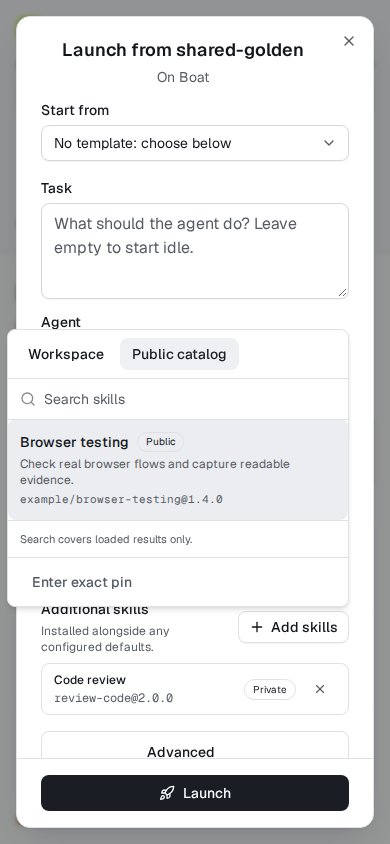
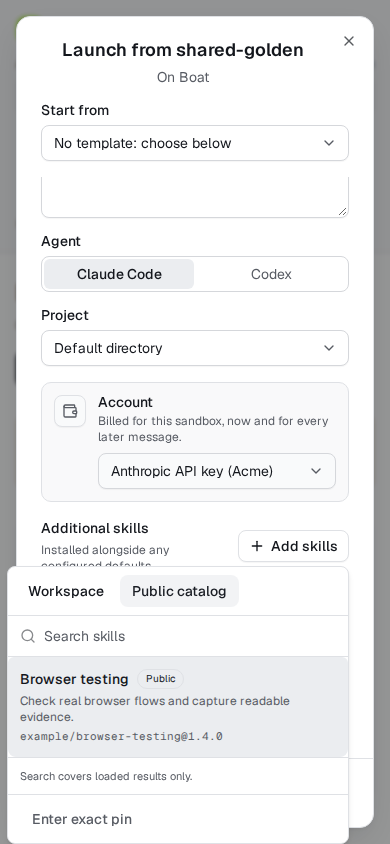
fix(dashboard): keep long skill metadata within the picker viewport

diff --git a/apps/dashboard/e2e/mock-supabase.ts b/apps/dashboard/e2e/mock-supabase.ts
@@ -53,6 +53,7 @@ type State = {
   launchRoutes: string[];
   skillCatalogUnavailable?: boolean;
   skillCatalogMalformed?: boolean;
+  skillCatalogLongDescription?: boolean;
   /** Golden build and capability requests contain metadata only, never tokens. */
   goldenCalls: { route: string; body: Row; authorized: boolean }[];
   goldenGate: {
@@ -1083,7 +1084,9 @@ function skillCatalogRoute(route: string, body: Row, request: Request): Response
             {
               reference: "review-code",
               name: "Code review",
-              description: "Review changes for correctness, security and test coverage.",
+              description: state.skillCatalogLongDescription
+                ? "Additional context. ".repeat(200)
+                : "Review changes for correctness, security and test coverage.",
               visibility: "private",
               versions: ["2.1.0"],
             },
@@ -2782,6 +2785,10 @@ function control(url: URL, body: Row): Response {
       code: String(body.code),
       status: body.canceled ? "canceled" : "pending",
     });
+    return json({ ok: true });
+  }
+  if (url.pathname === "/__test/skill-catalog-long-description") {
+    state.skillCatalogLongDescription = body.enabled === true;
     return json({ ok: true });
   }
   if (url.pathname === "/__test/skill-catalog-malformed") {

diff --git a/apps/dashboard/e2e/launch-skills.e2e.ts b/apps/dashboard/e2e/launch-skills.e2e.ts
@@ -116,3 +116,19 @@ test("malformed version responses stay inside the picker and preserve exact-pin 
   await picker.getByRole("button", { name: "Add pin", exact: true }).click();
   await expect(launch.getByRole("button", { name: "Remove notes@1.0.0" })).toBeVisible();
 });
+
+test("long metadata stays bounded and keeps version confirmation visible on a phone", async ({ page }) => {
+  await page.setViewportSize({ width: 390, height: 844 });
+  await post("/__test/skill-catalog-long-description", { enabled: true });
+  await signIn(page, "alice@example.com", "/environments");
+  const launch = await openLaunch(page, "shared-golden", { advanced: false });
+  await launch.getByRole("button", { name: "Add skills", exact: true }).click();
+  const picker = page.getByRole("dialog", { name: "Choose additional skills" });
+  await picker.getByRole("option", { name: /Code review/ }).click();
+  await expect(picker.getByLabel("Version", { exact: true })).toBeFocused();
+  await expect(picker.getByRole("button", { name: "Add skill", exact: true })).toBeInViewport({ ratio: 1 });
+  await expect(picker.getByRole("button", { name: "All skills" })).toBeInViewport({ ratio: 1 });
+  const box = await picker.boundingBox();
+  expect(box?.y).toBeGreaterThanOrEqual(0);
+  expect((box?.y ?? 0) + (box?.height ?? 0)).toBeLessThanOrEqual(844);
+});

diff --git a/apps/dashboard/src/components/skill-picker.tsx b/apps/dashboard/src/components/skill-picker.tsx
@@ -174,7 +174,7 @@ export function SkillPicker({ orgId, value, onChange, disabled = false }: Props)
           </PopoverTrigger>
           <PopoverContent
             align="end"
-            className="w-[min(26rem,calc(100vw-3rem))] overflow-hidden p-0"
+            className="max-h-[var(--radix-popover-content-available-height)] w-[min(26rem,calc(100vw-3rem))] overflow-y-auto overscroll-contain p-0"
             aria-label="Choose additional skills"
             onOpenAutoFocus={(event) => {
               event.preventDefault();
@@ -312,7 +312,9 @@ export function SkillPicker({ orgId, value, onChange, disabled = false }: Props)
                     <p className="font-medium">{chosen.name}</p>
                     <Visibility source={chosen.visibility} />
                   </div>
-                  <p className="text-xs leading-5 text-muted-foreground">{chosen.description}</p>
+                  <p className="line-clamp-4 break-words text-xs leading-5 text-muted-foreground">
+                    {chosen.description}
+                  </p>
                   <p className="break-all font-mono text-xs text-muted-foreground">{chosen.reference}</p>
                 </div>
                 <div className="space-y-2">
